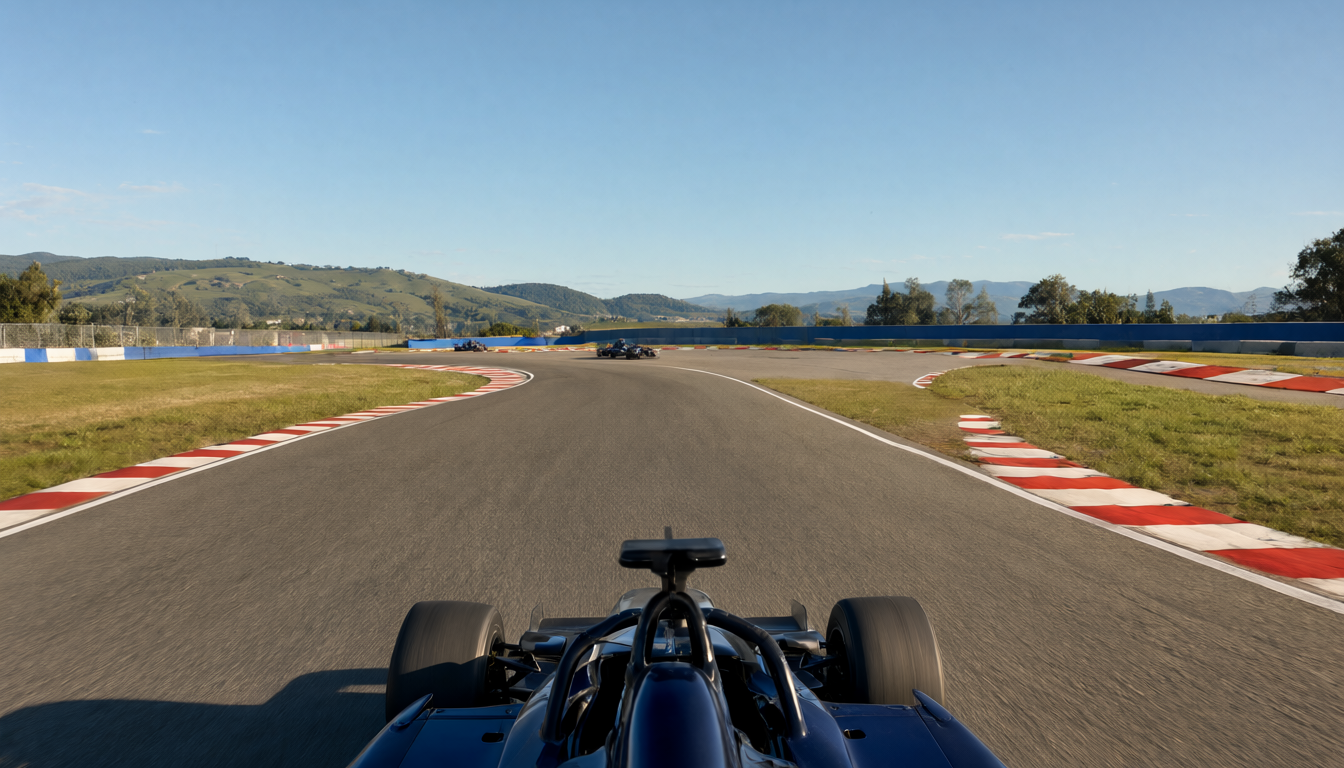
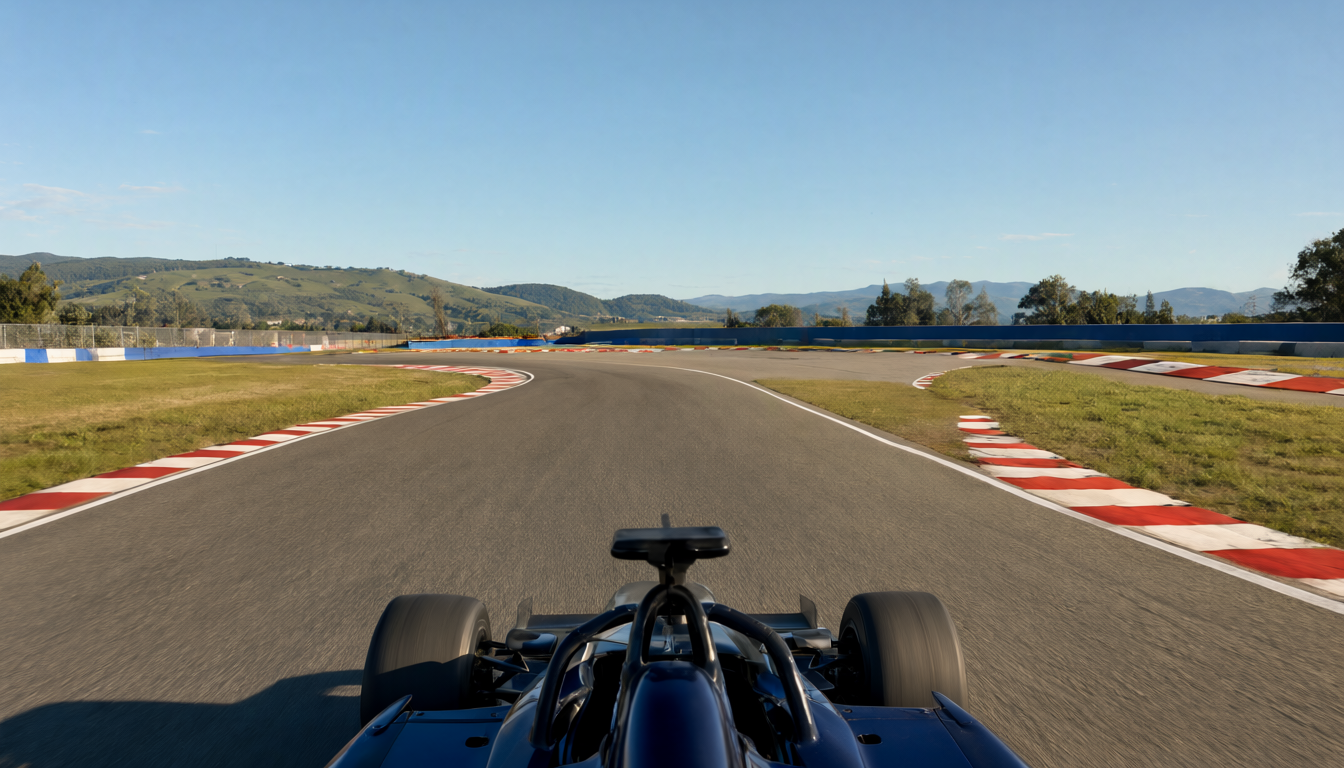
use seed 42 in dream7_keyframes_edit workflow

diff --git a/scripts/make_workflows.py b/scripts/make_workflows.py
@@ -176,7 +176,7 @@ def edit_workflow(kids, path):
         enc = g.node("TextEncodeQwenImage21", (-1260, y), (420, 330), [MATCH["prompt"], "", 0],
                      inputs=[("clip", "CLIP", False), ("vae", "VAE", True), ("images.image_1", "IMAGE", True), ("images.image_2", "IMAGE", True)],
                      outputs=[("positive", "CONDITIONING"), ("negative", "CONDITIONING"), ("latent", "LATENT")])
-        ks = g.node("KSampler", (-800, y), (320, 330), [EDIT_SEED, "fixed", EDIT_STEPS, 1, "euler", "simple", 1],
+        ks = g.node("KSampler", (-800, y), (320, 330), [k.get("edit_seed", EDIT_SEED), "fixed", EDIT_STEPS, 1, "euler", "simple", 1],
                     inputs=[("model", "MODEL", False), ("positive", "CONDITIONING", False), ("negative", "CONDITIONING", False), ("latent_image", "LATENT", False)],
                     outputs=[("LATENT", "LATENT")])
         dec = g.node("VAEDecode", (-440, y), (200, 50), [], inputs=[("samples", "LATENT", False), ("vae", "VAE", False)], outputs=[("IMAGE", "IMAGE")], color=False)

diff --git a/docs/ch3_storyboard.md b/docs/ch3_storyboard.md
@@ -31,6 +31,7 @@
 - `style`：统一风格（T-cam 机位、深蓝车身白色车头、晴天、灰色沥青和红白路肩），附加在每条提示词后面，保证各镜头看起来是同一辆车、同一天。
 - `video_rules`：视频统一规则（一镜到底、不倒车、不出现文字和水印）。
 - `keyframes[].scene`：每张关键帧的画面描述，第 4 章用。
+- `keyframes[].edit_seed`：统一车身时这张图用的 KSampler seed，不写就用默认值。K4 用 42，默认 seed 会在远处减速弯多画出两辆车。
 - `shots[].motion`：每个镜头“怎么动”，第 5 章用。
 - `video.takes = 2`：每个镜头 2 个候选。关键帧每张只生成 1 张，不对就改 `scene` 再生成（第 4 章）。
 - `pilot`：试拍用的 K0、K1，以及统一车身用的参考车 K3（`keyframe.match.reference`）。
